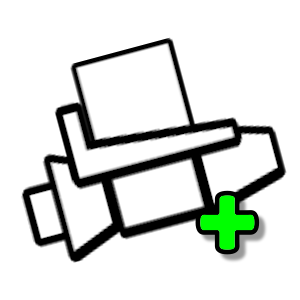
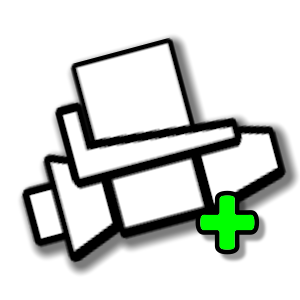
That's why yo granny ain't got no knees

diff --git a/src/hooks/GJGarageLayer.cpp b/src/hooks/GJGarageLayer.cpp
@@ -27,12 +27,12 @@ class $modify(MIGarageLayer, GJGarageLayer) {
         f->m_pages[IconType::Cube] = m_iconPages[IconType::Cube];
 
         auto iconType = GameManager::get()->m_playerIconType;
-        MoreIcons::changeSimplePlayer(m_playerObject, Mod::get()->getSavedValue<std::string>(MoreIcons::savedForType(iconType, false), ""), iconType);
+        MoreIconsAPI::updateSimplePlayer(m_playerObject, Mod::get()->getSavedValue<std::string>(MoreIconsAPI::savedForType(iconType, false), ""), iconType);
         auto sdi = Loader::get()->getLoadedMod("weebify.separate_dual_icons");
         if (sdi) {
             auto lastmode = (IconType)sdi->getSavedValue("lastmode", 0);
-            MoreIcons::changeSimplePlayer(static_cast<SimplePlayer*>(getChildByID("player2-icon")),
-                Mod::get()->getSavedValue<std::string>(MoreIcons::savedForType(lastmode, true), ""), lastmode);
+            MoreIconsAPI::updateSimplePlayer(static_cast<SimplePlayer*>(getChildByID("player2-icon")),
+                Mod::get()->getSavedValue<std::string>(MoreIconsAPI::savedForType(lastmode, true), ""), lastmode);
         }
 
         auto customIcon = Mod::get()->getSavedValue<std::string>("icon", "");
@@ -107,10 +107,10 @@ class $modify(MIGarageLayer, GJGarageLayer) {
         MoreIcons::swapDual("jetpack");
         MoreIcons::swapDual("trail");
         auto iconType = GameManager::get()->m_playerIconType;
-        MoreIcons::changeSimplePlayer(m_playerObject, Mod::get()->getSavedValue<std::string>(MoreIcons::savedForType(iconType, false), ""), iconType);
+        MoreIconsAPI::updateSimplePlayer(m_playerObject, Mod::get()->getSavedValue<std::string>(MoreIconsAPI::savedForType(iconType, false), ""), iconType);
         auto lastmode = (IconType)Loader::get()->getLoadedMod("weebify.separate_dual_icons")->getSavedValue("lastmode", 0);
-        MoreIcons::changeSimplePlayer(static_cast<SimplePlayer*>(getChildByID("player2-icon")),
-            Mod::get()->getSavedValue<std::string>(MoreIcons::savedForType(lastmode, true), ""), lastmode);
+        MoreIconsAPI::updateSimplePlayer(static_cast<SimplePlayer*>(getChildByID("player2-icon")),
+            Mod::get()->getSavedValue<std::string>(MoreIconsAPI::savedForType(lastmode, true), ""), lastmode);
         setupCustomPage(f->m_pages[m_iconType]);
     }
 
@@ -261,12 +261,12 @@ class $modify(MIGarageLayer, GJGarageLayer) {
         createNavMenu();
 
         auto iconType = GameManager::get()->m_playerIconType;
-        MoreIcons::changeSimplePlayer(m_playerObject, Mod::get()->getSavedValue<std::string>(MoreIcons::savedForType(iconType, false), ""), iconType);
+        MoreIconsAPI::updateSimplePlayer(m_playerObject, Mod::get()->getSavedValue<std::string>(MoreIconsAPI::savedForType(iconType, false), ""), iconType);
         auto sdi = Loader::get()->getLoadedMod("weebify.separate_dual_icons");
         if (sdi) {
             auto lastmode = (IconType)sdi->getSavedValue("lastmode", 0);
-            MoreIcons::changeSimplePlayer(static_cast<SimplePlayer*>(getChildByID("player2-icon")),
-                Mod::get()->getSavedValue<std::string>(MoreIcons::savedForType(lastmode, true), ""), lastmode);
+            MoreIconsAPI::updateSimplePlayer(static_cast<SimplePlayer*>(getChildByID("player2-icon")),
+                Mod::get()->getSavedValue<std::string>(MoreIconsAPI::savedForType(lastmode, true), ""), lastmode);
         }
 
         auto spriteFrameCache = CCSpriteFrameCache::get();
@@ -287,7 +287,7 @@ class $modify(MIGarageLayer, GJGarageLayer) {
         for (auto name : MoreIcons::getPage(m_iconType, f->m_pages[m_iconType])) {
             auto itemIcon = GJItemIcon::createBrowserItem(unlockType, 1);
             itemIcon->setScale(GJItemIcon::scaleForType(unlockType));
-            MoreIcons::changeSimplePlayer(itemIcon->m_player, name, m_iconType);
+            MoreIconsAPI::updateSimplePlayer(itemIcon->m_player, name, m_iconType);
             if (hasAnimProf) {
                 if (auto robotSprite = itemIcon->m_player->m_robotSprite) robotSprite->runAnimation("idle01");
                 if (auto spiderSprite = itemIcon->m_player->m_spiderSprite) spiderSprite->runAnimation("idle01");
@@ -298,7 +298,7 @@ class $modify(MIGarageLayer, GJGarageLayer) {
                 auto player = dual ? static_cast<SimplePlayer*>(getChildByID("player2-icon")) : m_playerObject;
                 player->updatePlayerFrame(1, m_iconType);
                 player->updateColors();
-                MoreIcons::changeSimplePlayer(player, name, m_iconType);
+                MoreIconsAPI::updateSimplePlayer(player, name, m_iconType);
                 if (!dual) gameManager->m_playerIconType = m_iconType;
                 player->setScale(m_iconType == IconType::Jetpack ? 1.5f : 1.6f);
                 auto selectedIconType = dual ? (IconType)sdi->getSavedValue("lasttype", 0) : m_selectedIconType;
@@ -309,7 +309,7 @@ class $modify(MIGarageLayer, GJGarageLayer) {
                         nameLabel->setString(name.substr(name.find_first_of(':') + 1).c_str());
                     if (auto achLabel = getChildOfType<CCLabelBMFont>(popup->m_mainLayer, 1)) achLabel->setString("Custom");
                     if (auto popupIcon = findFirstChildRecursive<GJItemIcon>(popup->m_mainLayer, [](auto) { return true; }))
-                        MoreIcons::changeSimplePlayer(popupIcon->m_player, name, m_iconType);
+                        MoreIconsAPI::updateSimplePlayer(popupIcon->m_player, name, m_iconType);
                     if (auto descText = getChildOfType<TextArea>(popup->m_mainLayer, 0)) descText->setString(
                         fmt::format("This <cg>{}</c> is added by the <cl>More Icons</c> mod.", std::string(ItemInfoPopup::nameForUnlockType(1, unlockType))));
                     if (!iconInfo.id.empty()) {

diff --git a/src/MoreIcons.cpp b/src/MoreIcons.cpp
@@ -500,113 +500,3 @@ void MoreIcons::loadTrail(const std::filesystem::path& path, const TexturePack& 
         else image->release();
     });
 }
-
-void MoreIcons::changeSimplePlayer(SimplePlayer* player, const std::string& file, IconType iconType) {
-    if (!player) return;
-
-    if (iconType == IconType::Robot) {
-        useCustomRobot(player->m_robotSprite, file);
-        return;
-    }
-    else if (iconType == IconType::Spider) {
-        useCustomSpider(player->m_spiderSprite, file);
-        return;
-    }
-
-    if (file.empty()) return;
-    switch (iconType) {
-        case IconType::Cube:
-            if (!MoreIcons::hasIcon(file)) return;
-            break;
-        case IconType::Ship:
-            if (!MoreIcons::hasShip(file)) return;
-            break;
-        case IconType::Ball:
-            if (!MoreIcons::hasBall(file)) return;
-            break;
-        case IconType::Ufo:
-            if (!MoreIcons::hasUfo(file)) return;
-            break;
-        case IconType::Wave:
-            if (!MoreIcons::hasWave(file)) return;
-            break;
-        case IconType::Swing:
-            if (!MoreIcons::hasSwing(file)) return;
-            break;
-        case IconType::Jetpack:;
-            if (!MoreIcons::hasJetpack(file)) return;
-            break;
-        default:
-            return;
-    }
-
-    auto sfc = CCSpriteFrameCache::get();
-    auto icon = fmt::format("{}_001.png"_spr, file);
-    auto icon2 = fmt::format("{}_2_001.png"_spr, file);
-    auto icon3 = fmt::format("{}_3_001.png"_spr, file);
-    auto iconExtra = fmt::format("{}_extra_001.png"_spr, file);
-    auto iconGlow = fmt::format("{}_glow_001.png"_spr, file);
-
-    player->m_firstLayer->setDisplayFrame(sfc->spriteFrameByName(icon.c_str()));
-    player->m_secondLayer->setDisplayFrame(sfc->spriteFrameByName(icon2.c_str()));
-    auto firstCenter = player->m_firstLayer->getContentSize() / 2;
-    player->m_secondLayer->setPosition(firstCenter);
-    player->m_outlineSprite->setDisplayFrame(sfc->spriteFrameByName(iconGlow.c_str()));
-    player->m_outlineSprite->setPosition(firstCenter);
-    if (iconType == IconType::Ufo) {
-        player->m_birdDome->setDisplayFrame(sfc->spriteFrameByName(icon3.c_str()));
-        player->m_birdDome->setPosition(firstCenter);
-    }
-    auto extraFrame = sfc->spriteFrameByName(iconExtra.c_str());
-    auto extraVisible = doesExist(extraFrame);
-    player->m_detailSprite->setVisible(extraVisible);
-    if (extraVisible) {
-        player->m_detailSprite->setDisplayFrame(extraFrame);
-        player->m_detailSprite->setPosition(firstCenter);
-    }
-}
-
-void MoreIcons::useCustomSprite(GJRobotSprite* robot, const std::string& file) {
-    robot->setBatchNode(nullptr);
-    robot->m_paSprite->setBatchNode(nullptr);
-    auto spriteParts = robot->m_paSprite->m_spriteParts;
-    auto spriteFrameCache = CCSpriteFrameCache::get();
-    for (int i = 0; i < spriteParts->count(); i++) {
-        auto spritePart = static_cast<CCSpritePart*>(spriteParts->objectAtIndex(i));
-        auto tag = spritePart->getTag();
-
-        auto spriteFrame = fmt::format("{}_{:02}_001.png"_spr, file, tag);
-        auto sprite2Frame = fmt::format("{}_{:02}_2_001.png"_spr, file, tag);
-        auto spriteExtraFrame = fmt::format("{}_{:02}_extra_001.png"_spr, file, tag);
-        auto spriteGlowFrame = fmt::format("{}_{:02}_glow_001.png"_spr, file, tag);
-
-        spritePart->setBatchNode(nullptr);
-        spritePart->setDisplayFrame(spriteFrameCache->spriteFrameByName(spriteFrame.c_str()));
-        if (auto secondSprite = static_cast<CCSprite*>(robot->m_secondArray->objectAtIndex(i))) {
-            secondSprite->setBatchNode(nullptr);
-            secondSprite->setDisplayFrame(spriteFrameCache->spriteFrameByName(sprite2Frame.c_str()));
-            secondSprite->setPosition(spritePart->getContentSize() / 2);
-        }
-
-        auto glowChild = static_cast<CCSprite*>(robot->m_glowSprite->getChildren()->objectAtIndex(i));
-        glowChild->setBatchNode(nullptr);
-        glowChild->setDisplayFrame(spriteFrameCache->spriteFrameByName(spriteGlowFrame.c_str()));
-
-        if (spritePart == robot->m_headSprite) {
-            auto extraFrame = spriteFrameCache->spriteFrameByName(spriteExtraFrame.c_str());
-            auto hasExtra = MoreIcons::doesExist(extraFrame);
-            if (hasExtra) {
-                if (robot->m_extraSprite) {
-                    robot->m_extraSprite->setBatchNode(nullptr);
-                    robot->m_extraSprite->setDisplayFrame(extraFrame);
-                }
-                else {
-                    robot->m_extraSprite = CCSprite::createWithSpriteFrame(extraFrame);
-                    robot->m_headSprite->addChild(robot->m_extraSprite, 2);
-                }
-                robot->m_extraSprite->setPosition(spritePart->getContentSize() / 2);
-            }
-            robot->m_extraSprite->setVisible(hasExtra);
-        }
-    }
-}

diff --git a/src/MoreIcons.hpp b/src/MoreIcons.hpp
@@ -1,4 +1,5 @@
 #include <BS_thread_pool.hpp>
+#include <hiimjustin000.more_icons_api/include/MoreIconsAPI.hpp>
 
 struct TexturePack {
     std::string name;
@@ -214,14 +215,12 @@ public:
     }
 
     static void changeSimplePlayer(SimplePlayer* player, IconType type) {
-        changeSimplePlayer(player, geode::Mod::get()->getSavedValue<std::string>(savedForType(type), ""), type);
+        MoreIconsAPI::updateSimplePlayer(player, geode::Mod::get()->getSavedValue<std::string>(savedForType(type), ""), type);
     }
 
     static void changeSimplePlayer(SimplePlayer* player, IconType type, bool dual) {
-        changeSimplePlayer(player, geode::Mod::get()->getSavedValue<std::string>(savedForType(type, dual), ""), type);
+        MoreIconsAPI::updateSimplePlayer(player, geode::Mod::get()->getSavedValue<std::string>(MoreIconsAPI::savedForType(type, dual), ""), type);
     }
-
-    static void changeSimplePlayer(SimplePlayer*, const std::string&, IconType);
 
     static bool doesExist(cocos2d::CCSpriteFrame* frame) {
         return frame != nullptr && frame->getTag() != 105871529;
@@ -297,26 +296,7 @@ public:
 
     static std::string savedForType(IconType type) {
         auto sdi = geode::Loader::get()->getLoadedMod("weebify.separate_dual_icons");
-        return savedForType(type, sdi && sdi->getSavedValue("2pselected", false));
-    }
-
-    static std::string savedForType(IconType type, bool dual) {
-        std::string prefix;
-        switch (type) {
-            case IconType::Cube: prefix = "icon"; break;
-            case IconType::Ship: prefix = "ship"; break;
-            case IconType::Ball: prefix = "ball"; break;
-            case IconType::Ufo: prefix = "ufo"; break;
-            case IconType::Wave: prefix = "wave"; break;
-            case IconType::Robot: prefix = "robot"; break;
-            case IconType::Spider: prefix = "spider"; break;
-            case IconType::Swing: prefix = "swing"; break;
-            case IconType::Jetpack: prefix = "jetpack"; break;
-            case IconType::Special: prefix = "trail"; break;
-            default: prefix = ""; break;
-        }
-
-        return getDual(prefix, dual);
+        return MoreIconsAPI::savedForType(type, sdi && sdi->getSavedValue("2pselected", false));
     }
 
     static std::string getFrameName(const std::string& name, const std::string prefix, IconType type) {
@@ -367,18 +347,6 @@ public:
         auto count = GameManager::get()->countForType(type);
         return page * 36 < count;
     }
-
-    static void useCustomRobot(GJRobotSprite* robot, const std::string& robotFile) {
-        if (!robot || robotFile.empty() || !hasRobot(robotFile)) return;
-        useCustomSprite(robot, robotFile);
-    }
-
-    static void useCustomSpider(GJSpiderSprite* spider, const std::string& spiderFile) {
-        if (!spider || spiderFile.empty() || !hasSpider(spiderFile)) return;
-        useCustomSprite(spider, spiderFile);
-    }
-
-    static void useCustomSprite(GJRobotSprite* robot, const std::string& file);
 
     static void showInfoPopup(bool folderButton = false) {
         geode::createQuickPopup(

diff --git a/src/hooks/PlayerObject.cpp b/src/hooks/PlayerObject.cpp
@@ -204,12 +204,12 @@ class $modify(MIPlayerObject, PlayerObject) {
         if (!m_gameLayer->m_player1 || m_gameLayer->m_player1 == this) {
             auto robotFile = Mod::get()->getSavedValue<std::string>(MoreIcons::getDual("robot", false), "");
             if (robotFile.empty() || !MoreIcons::hasRobot(robotFile)) return;
-            MoreIcons::useCustomRobot(m_robotSprite, robotFile);
+            MoreIconsAPI::updateRobotSprite(m_robotSprite, robotFile, IconType::Robot);
         }
         else if (!m_gameLayer->m_player2 || m_gameLayer->m_player2 == this) {
             auto robotFile = Mod::get()->getSavedValue<std::string>(MoreIcons::getDual("robot", true), "");
             if (robotFile.empty() || !MoreIcons::hasRobot(robotFile)) return;
-            MoreIcons::useCustomRobot(m_robotSprite, robotFile);
+            MoreIconsAPI::updateRobotSprite(m_robotSprite, robotFile, IconType::Robot);
         }
         else return;
 
@@ -236,12 +236,12 @@ class $modify(MIPlayerObject, PlayerObject) {
         if (!m_gameLayer->m_player1 || m_gameLayer->m_player1 == this) {
             auto spiderFile = Mod::get()->getSavedValue<std::string>(MoreIcons::getDual("spider", false), "");
             if (spiderFile.empty() || !MoreIcons::hasSpider(spiderFile)) return;
-            MoreIcons::useCustomSpider(m_spiderSprite, spiderFile);
+            MoreIconsAPI::updateRobotSprite(m_spiderSprite, spiderFile, IconType::Spider);
         }
         else if (!m_gameLayer->m_player2 || m_gameLayer->m_player2 == this) {
             auto spiderFile = Mod::get()->getSavedValue<std::string>(MoreIcons::getDual("spider", true), "");
             if (spiderFile.empty() || !MoreIcons::hasSpider(spiderFile)) return;
-            MoreIcons::useCustomSpider(m_spiderSprite, spiderFile);
+            MoreIconsAPI::updateRobotSprite(m_spiderSprite, spiderFile, IconType::Spider);
         }
         else return;
 

diff --git a/changelog.md b/changelog.md
@@ -1,4 +1,8 @@
 # More Icons Changelog
+## v1.3.4 (2024-10-21)
+- Moved some logic to More Icons API
+- Tweaked the logo to add drop shadow
+
 ## v1.3.3 (2024-10-19)
 - Improved the duplicate system
 - Changed page functionality in the icon kit
